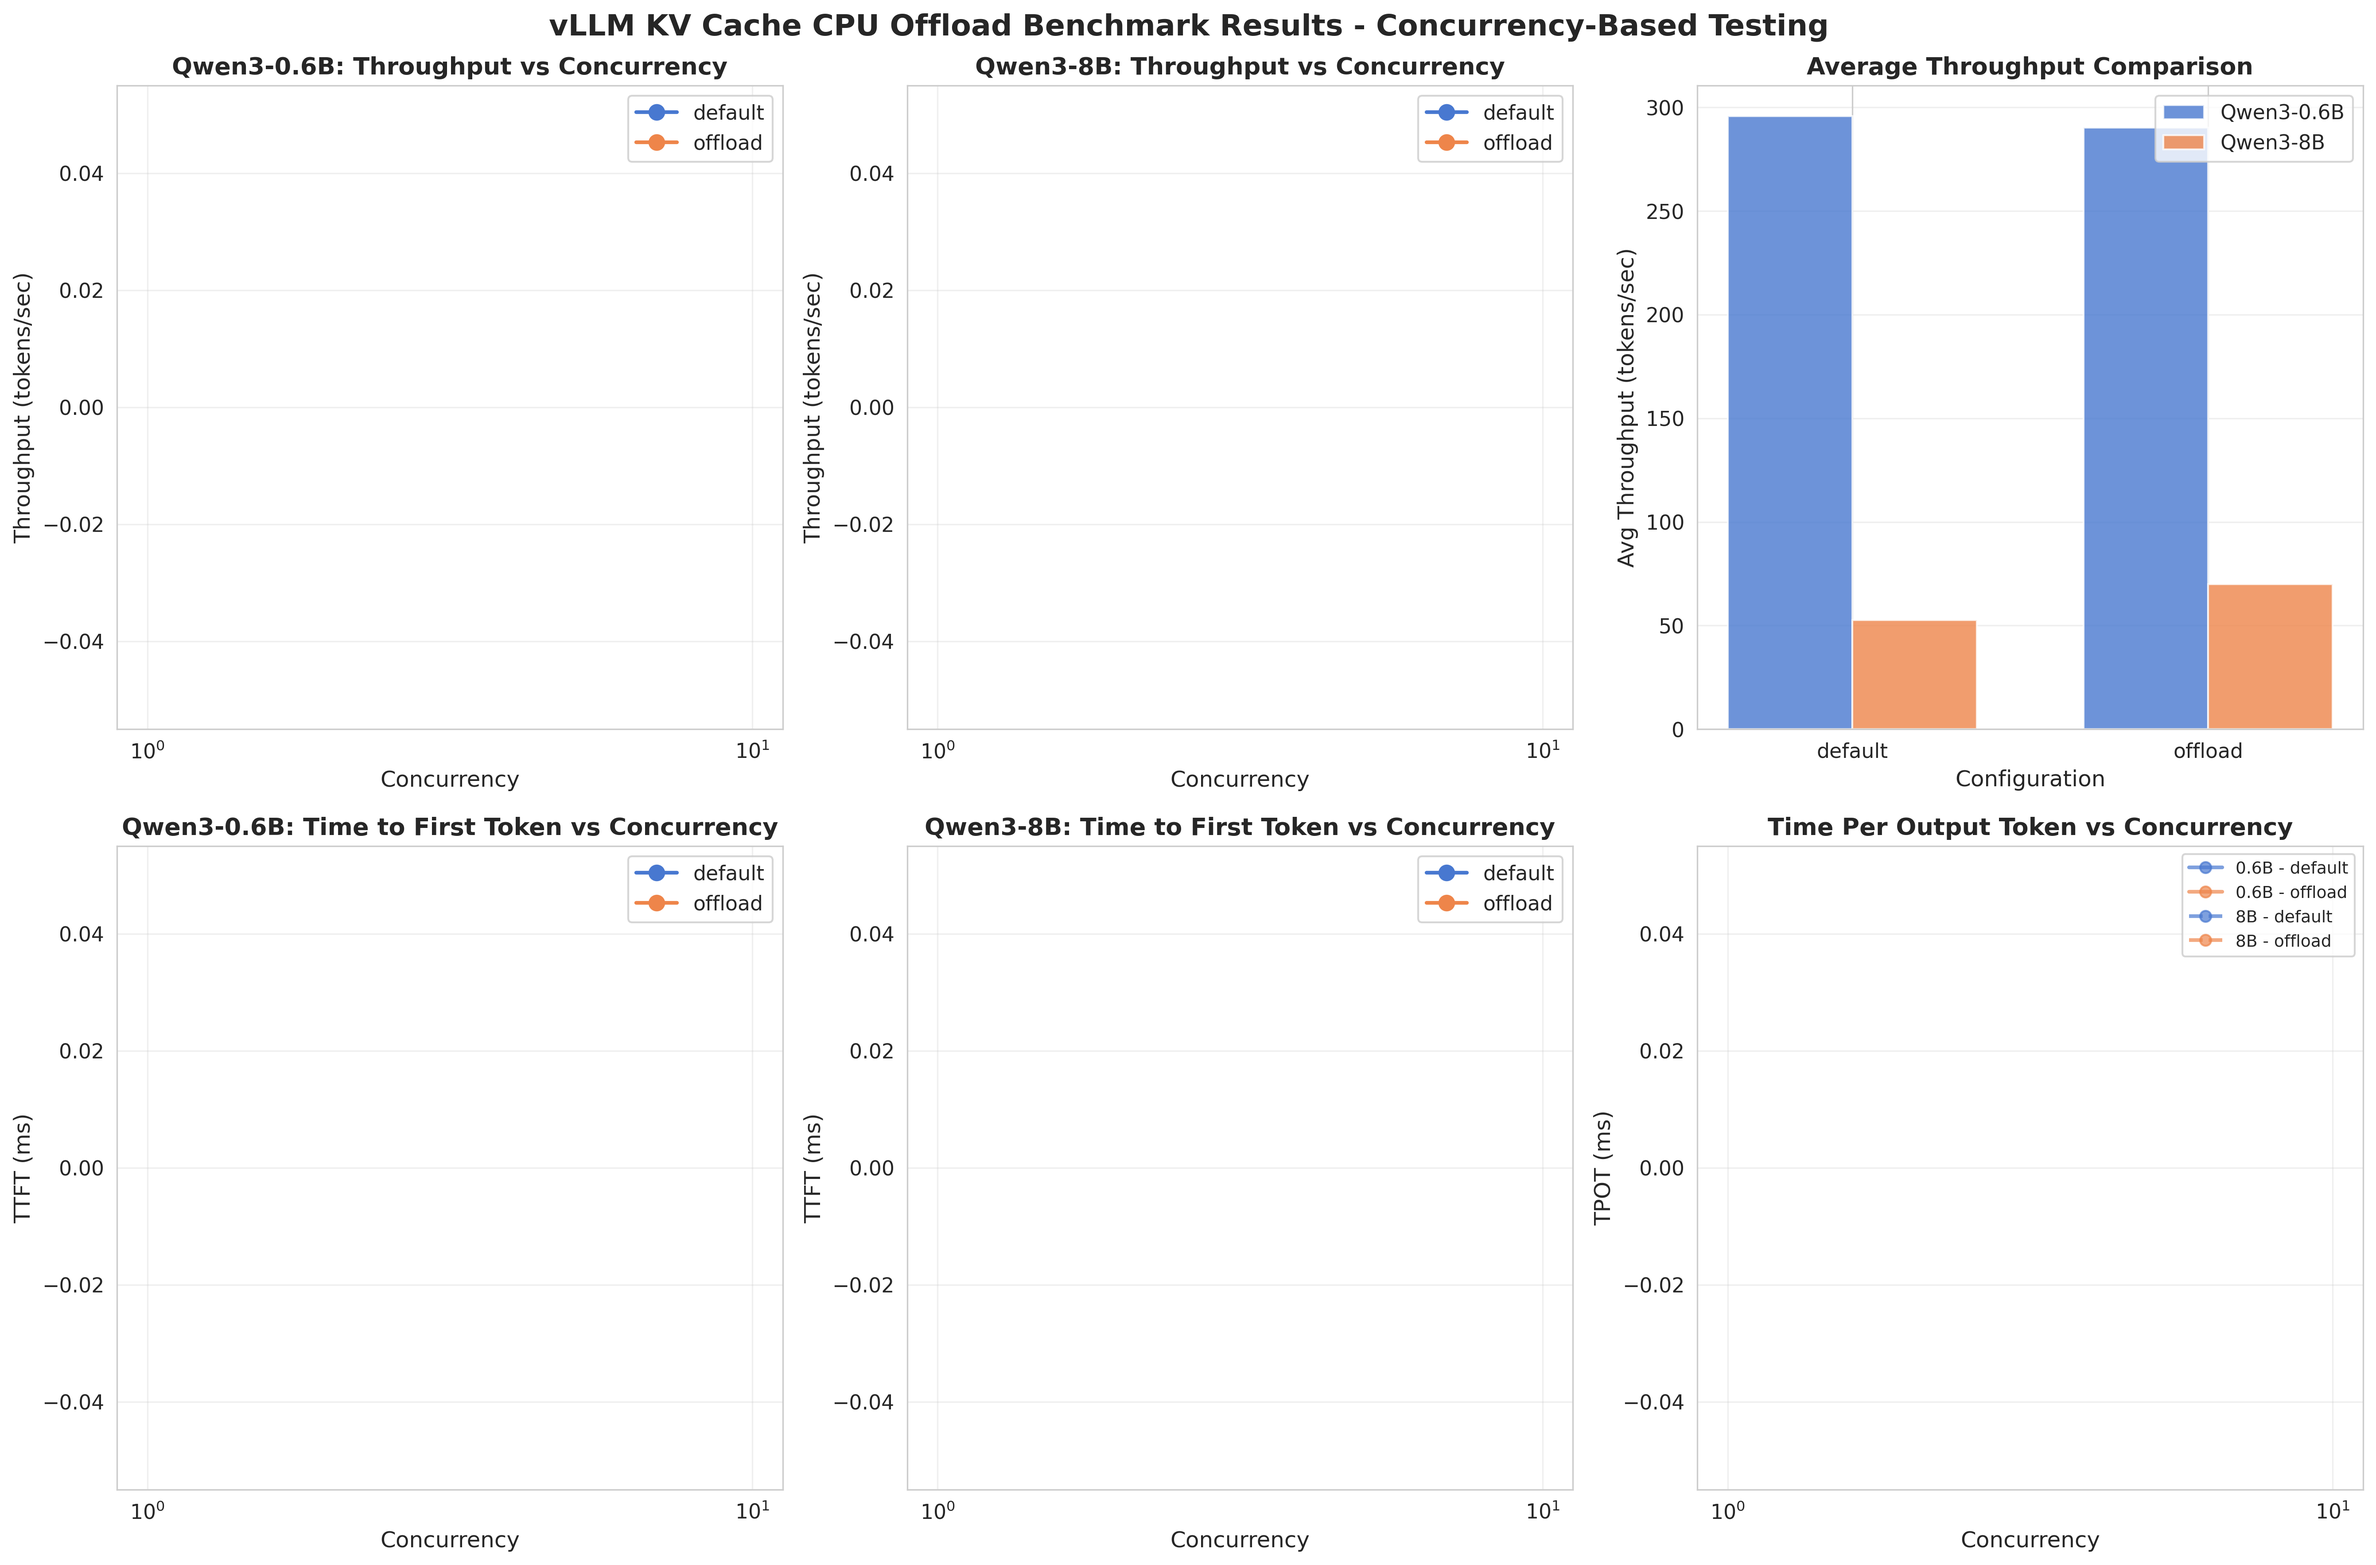
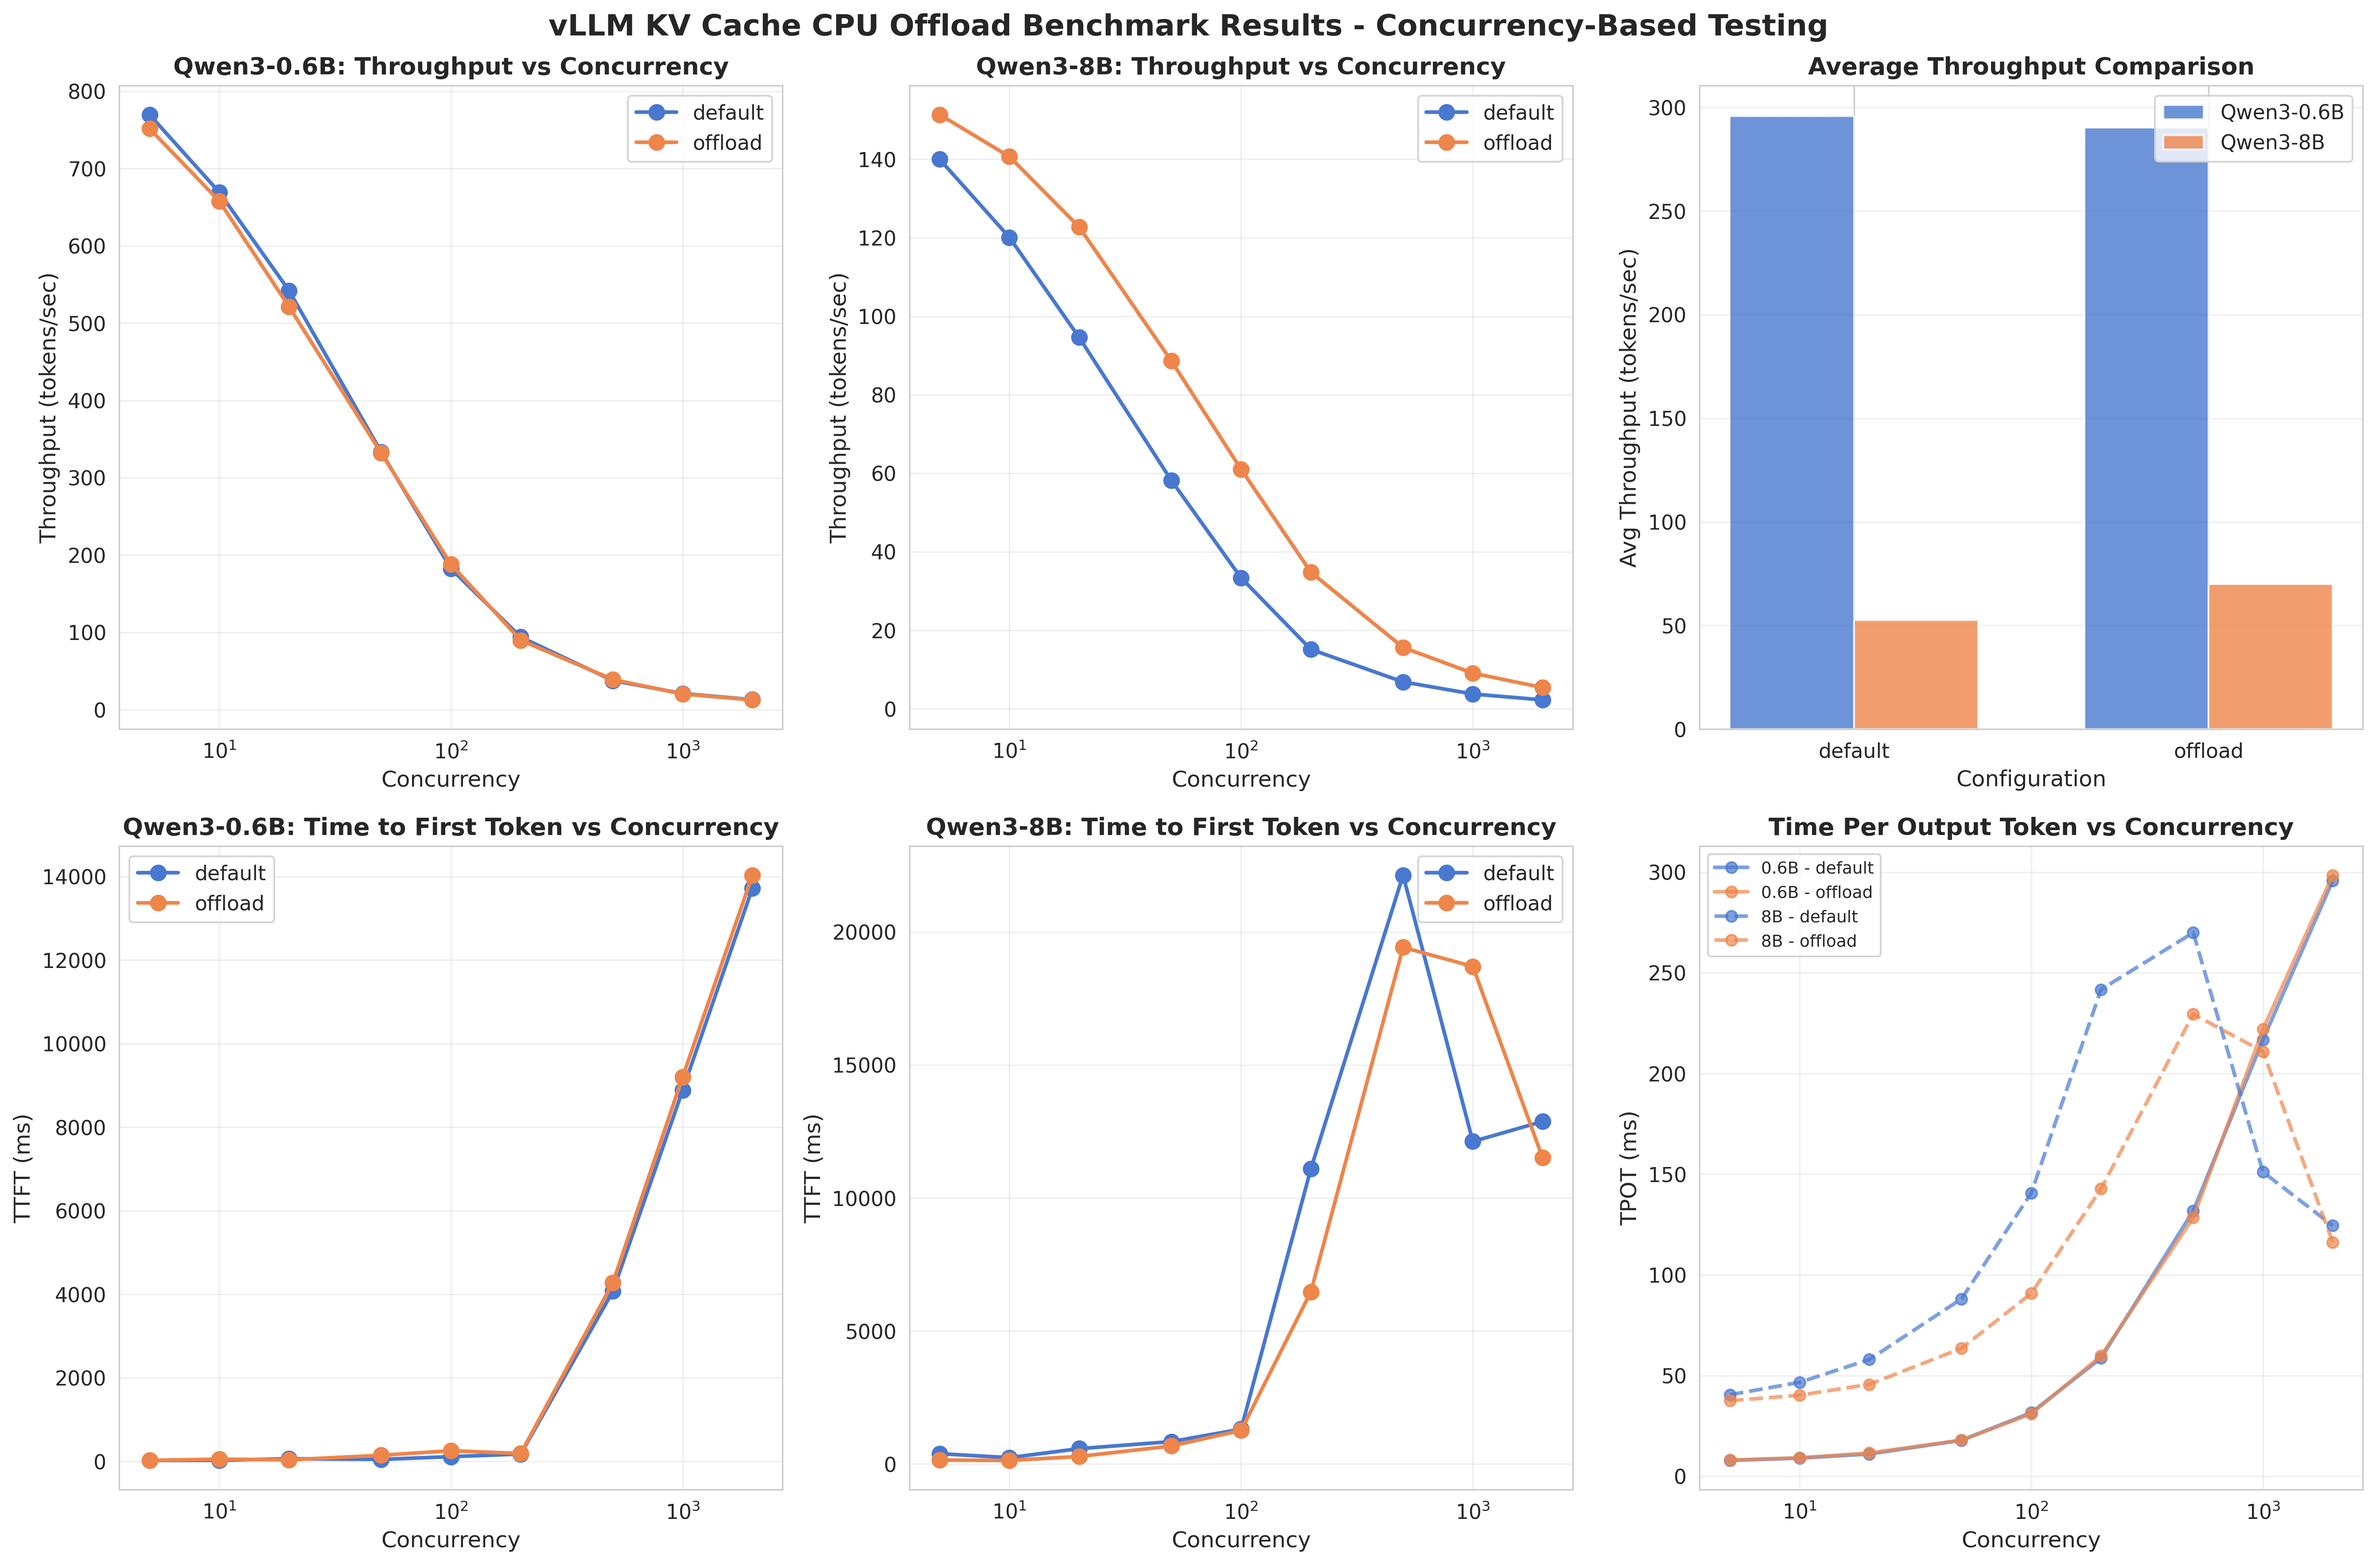
Fix main benchmark graphs showing no data points

diff --git a/vllm-kvcache-cpu-offload-eval/create_visualizations.py b/vllm-kvcache-cpu-offload-eval/create_visualizations.py
@@ -20,6 +20,9 @@ df = pd.read_csv('final_config_mapping.csv', parse_dates=['start_time', 'end_tim
 # Filter out warmup runs and lmcache (excluded from analysis)
 df_plot = df[(~df['is_warmup']) & (df['config_label'] != 'lmcache')].copy()
 
+# Use the correct concurrency column
+df_plot['concurrency'] = df_plot['concurrency.1']
+
 # Create figure with subplots
 fig, axes = plt.subplots(2, 3, figsize=(18, 12))
 fig.suptitle('vLLM KV Cache CPU Offload Benchmark Results - Concurrency-Based Testing',
